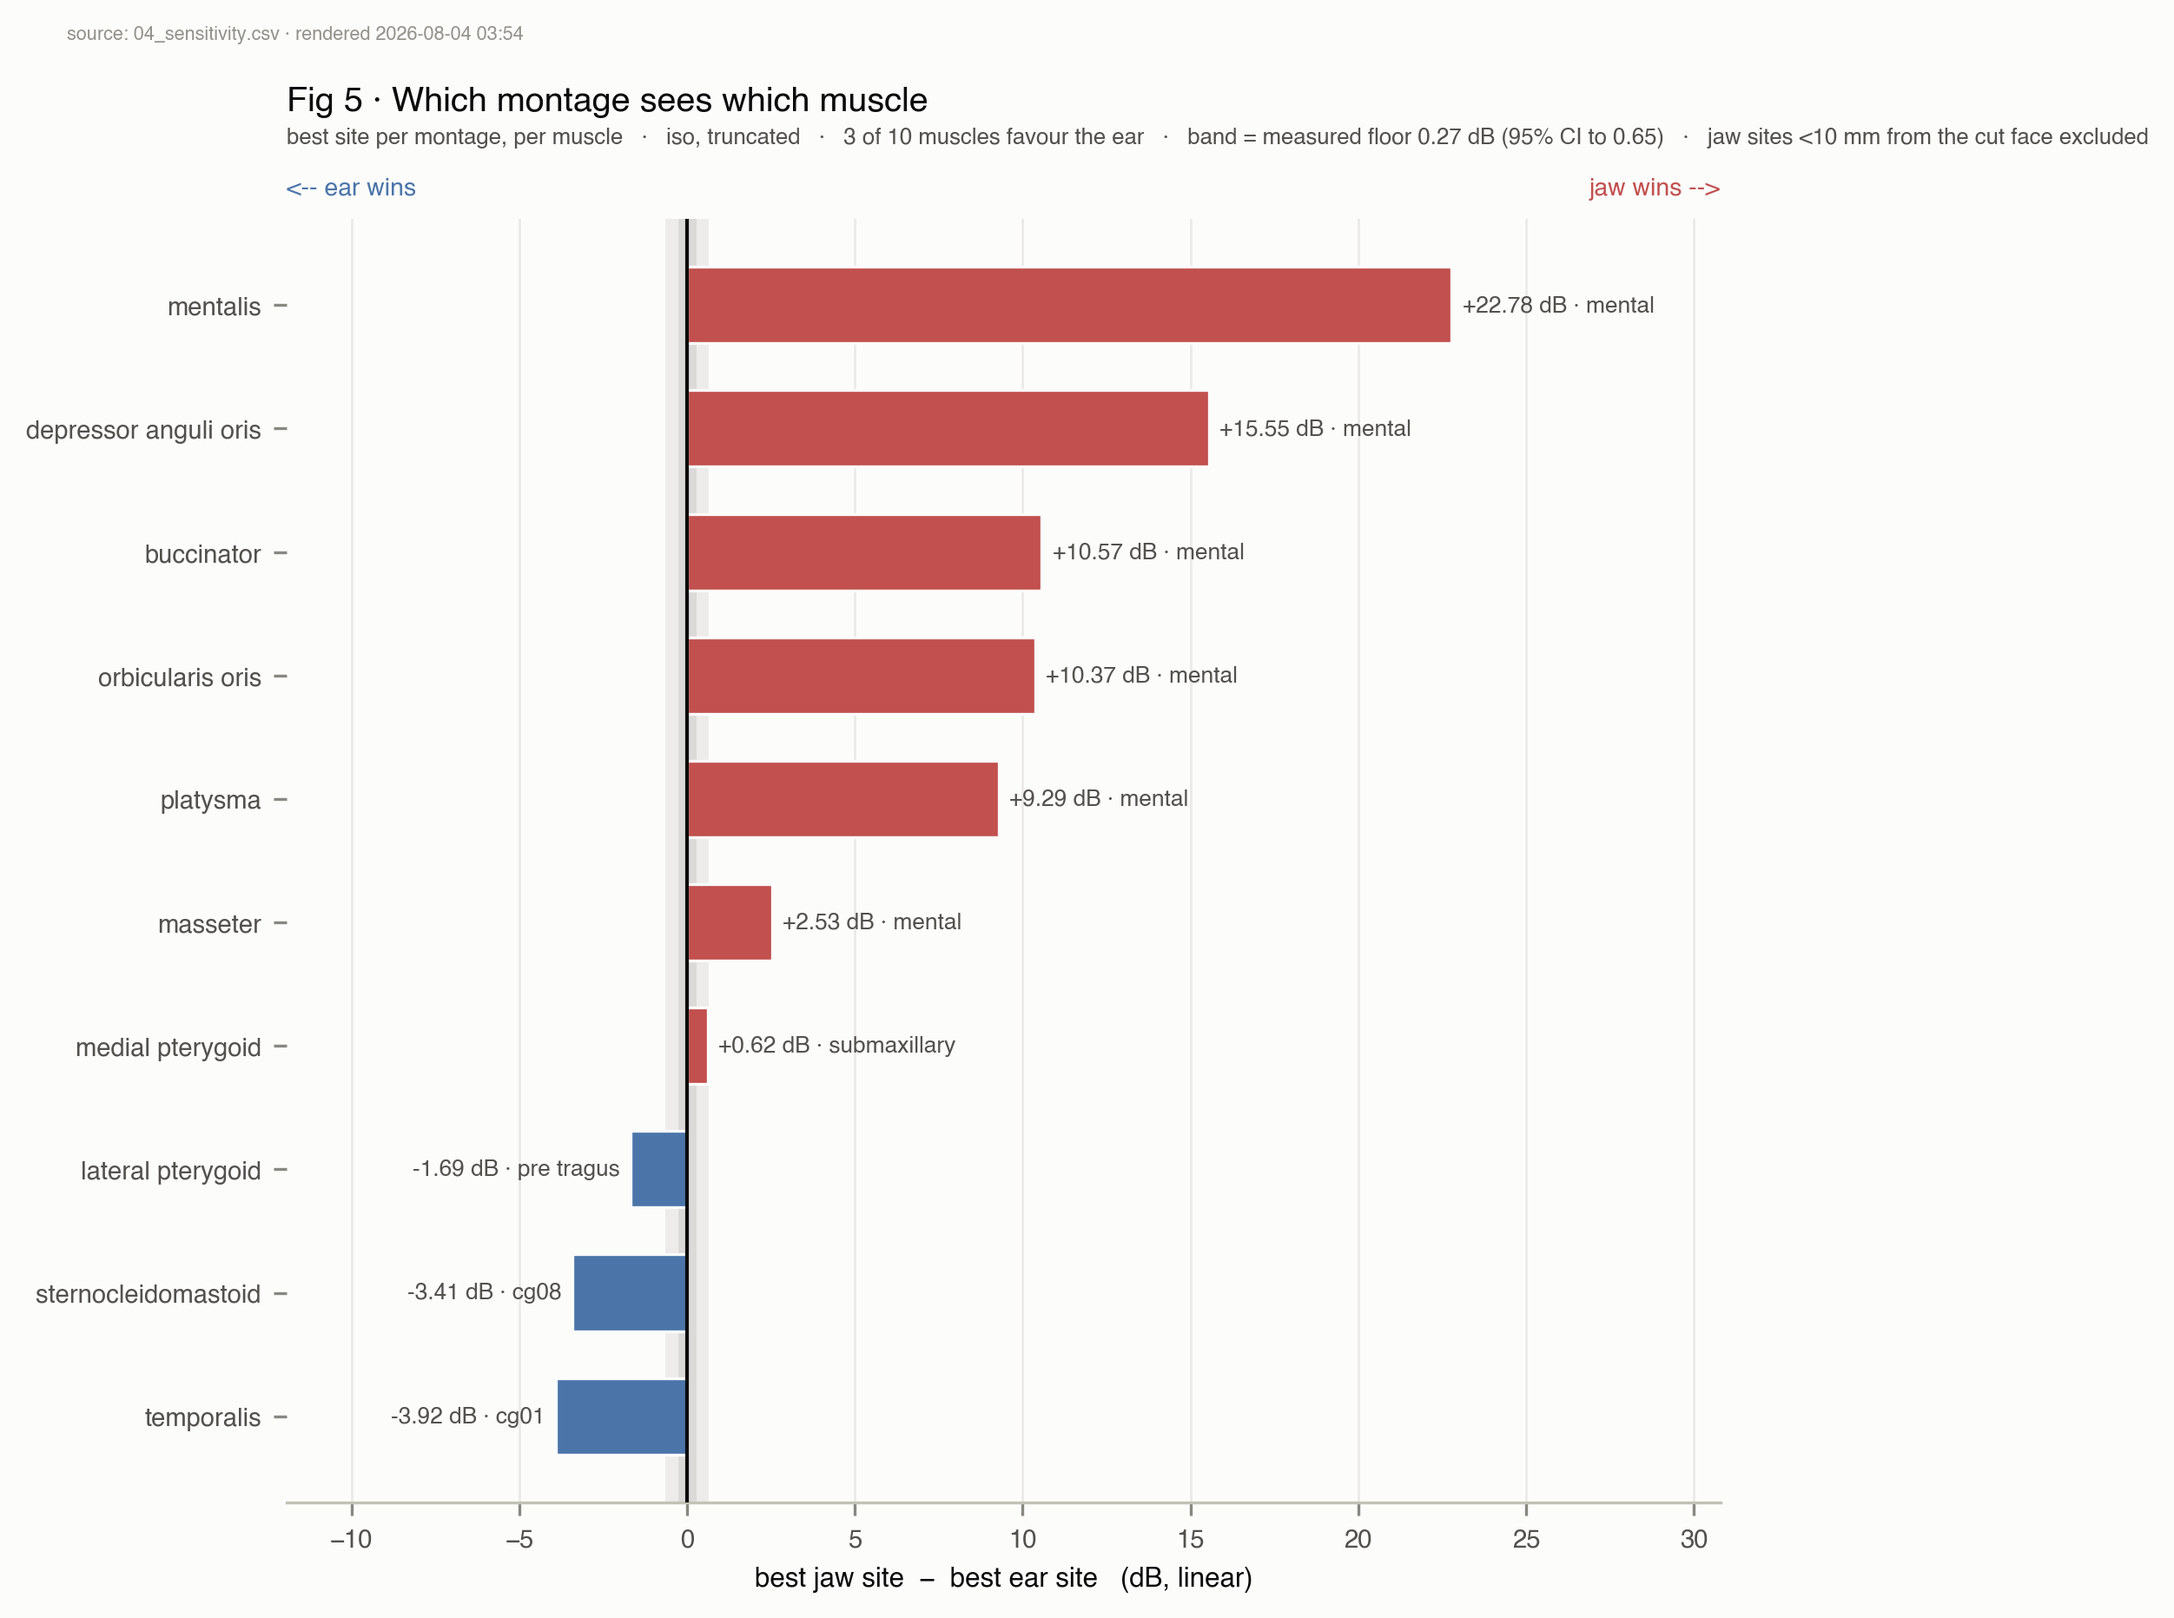
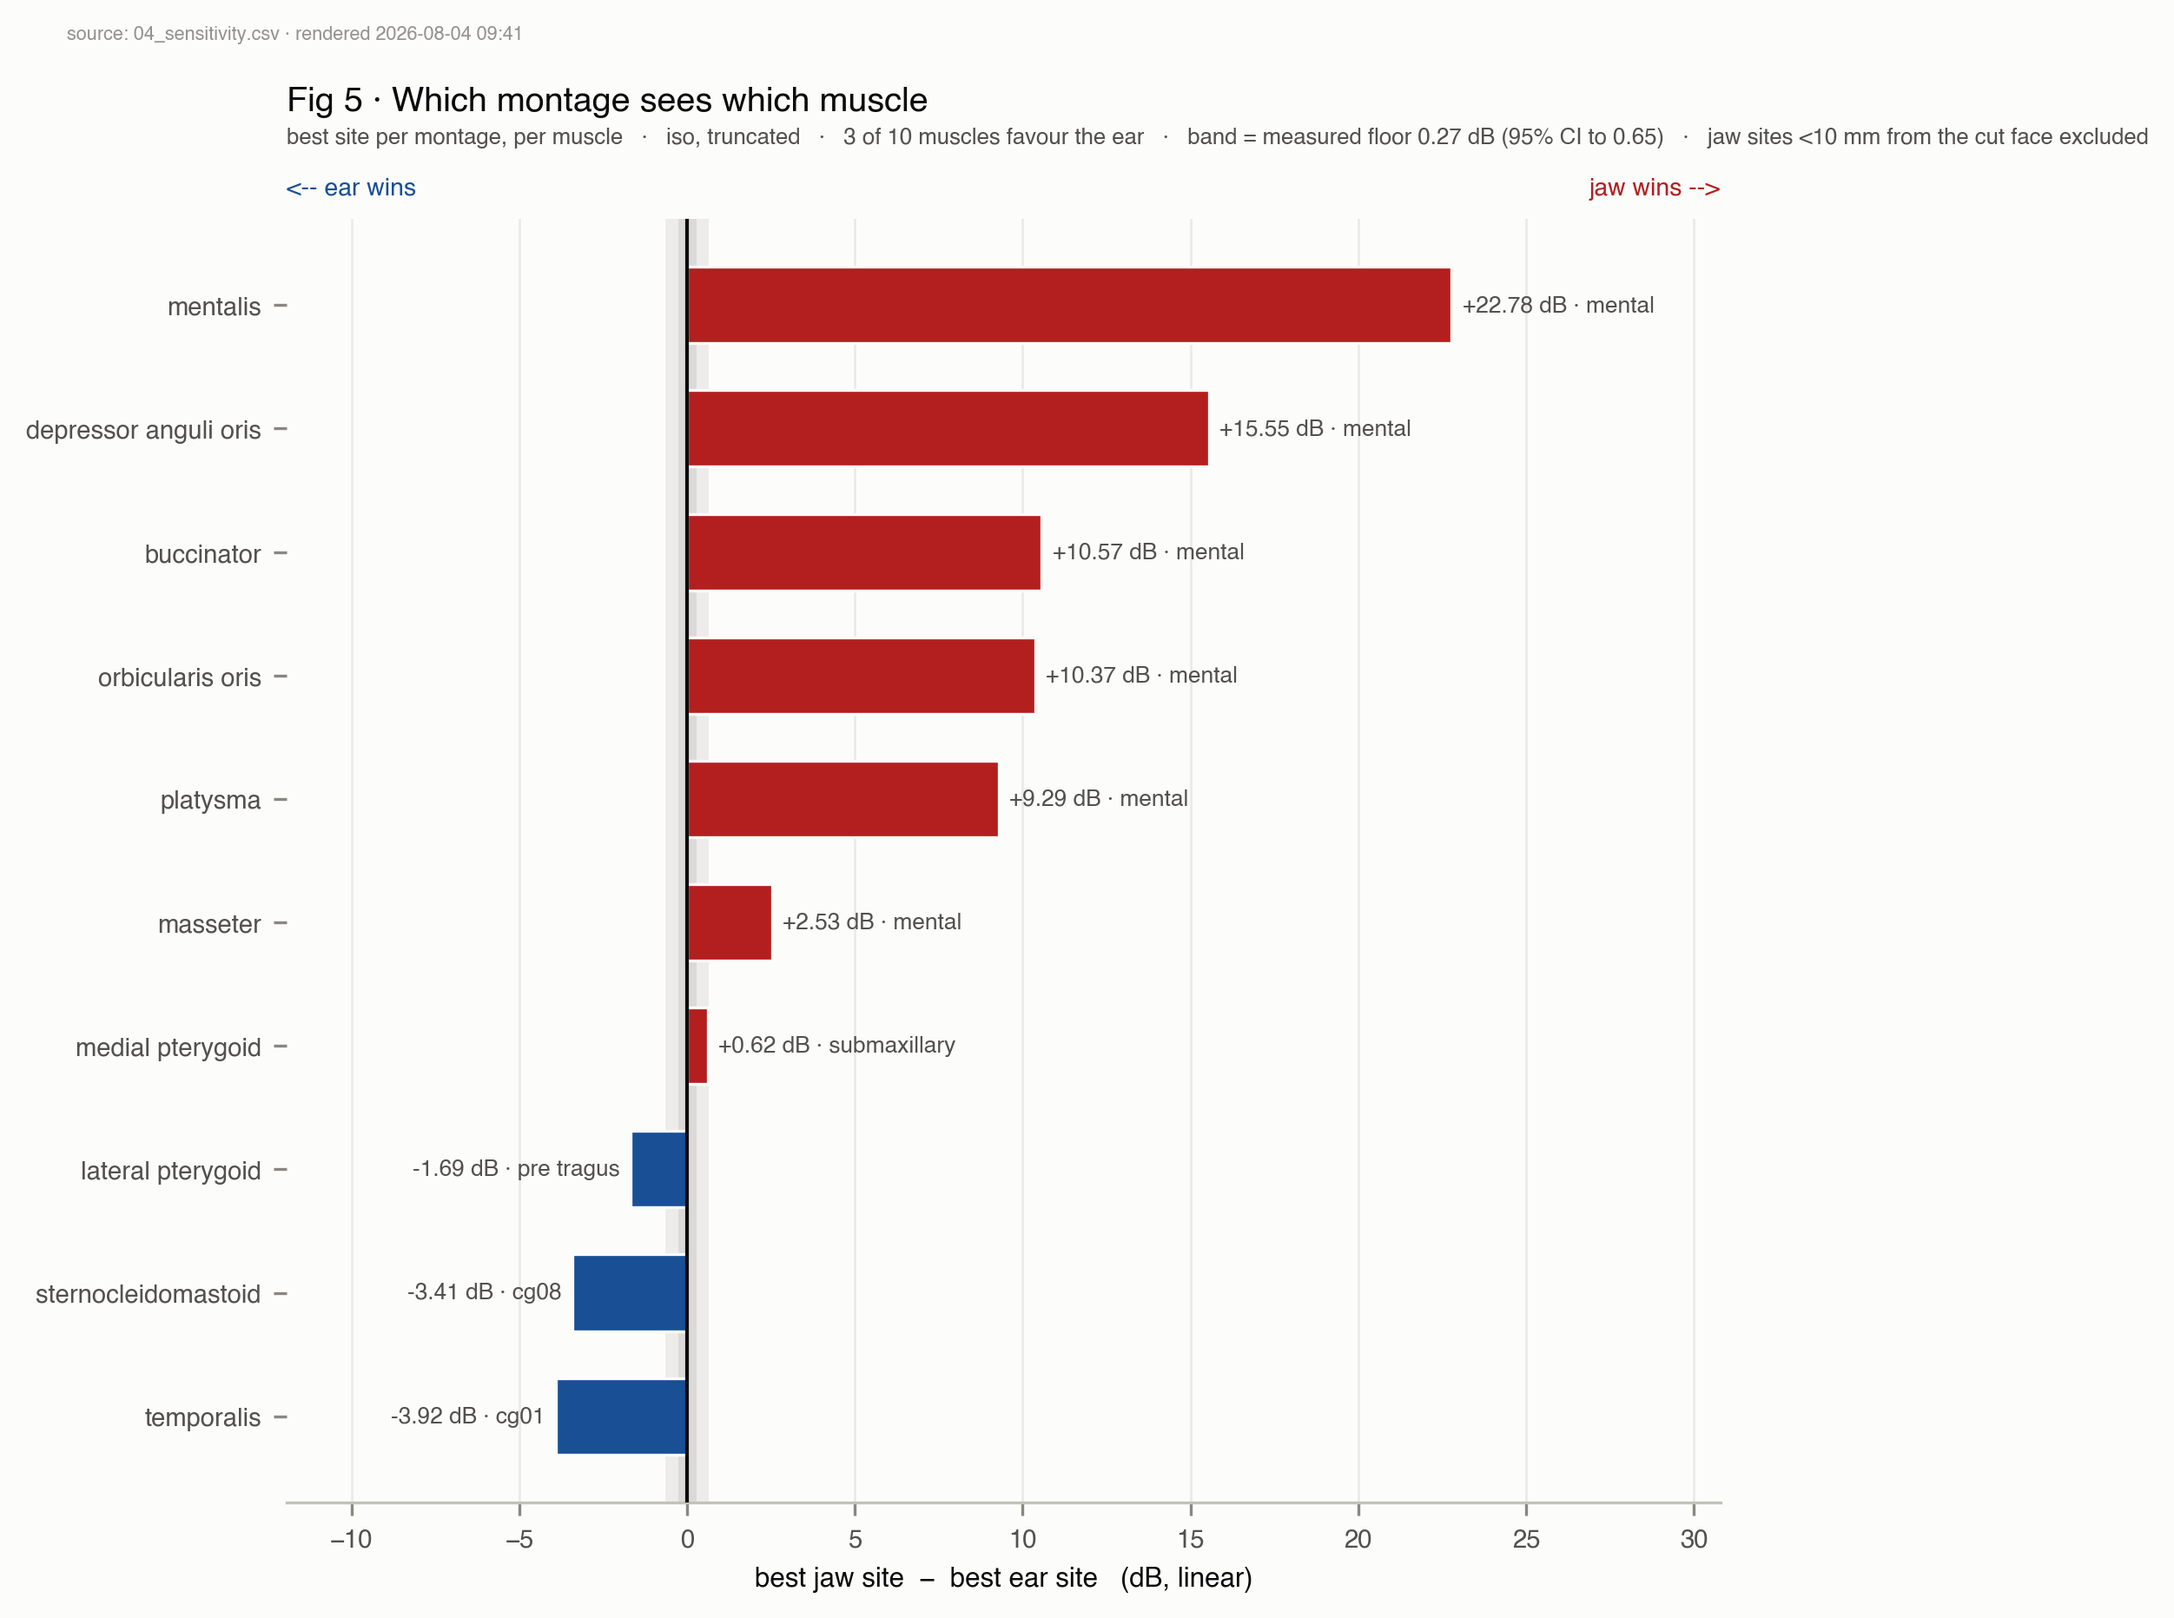
Fidelity vs correctness as a named class, with a full audit; semantic colour mapping
Item 1: the upstream draft now reports slope 0.359 against the predicted 0.5
and states plainly that this agrees only within the tet-patch's own absolute-
level uncertainty (0.9406/1.2481/1.1134, a spread of 27.9% of its mean). The
slope gap is 28.2% -- the same size -- so it is NOT presented as confirming
0.5, and the note says why the shortfall may point at the interface-flux
estimator and where it could be settled.

Item 2: CLAUDE.md gains the class -- a verification confirms a specification
was APPLIED, never that it was CORRECT -- with the tensor eigenvalue readback
as the worked case: it passed at |dot| 1.0000 on an axis that was the bilateral
separation, not the fibre direction. Every existing verification is audited by
channel; test_guard_coverage and anonymise_head are labelled fidelity-only with
their correctness partners named. Also recorded: split_sides() warned about
this exact failure in its docstring and was not read, the same shape as not
reading the SimNIBS calibration source.

Item 3: sign -> colour is defined ONCE in render_common as EAR_ADVANTAGE /
JAW_ADVANTAGE, and diverging_cmap() now REQUIRES ear_is_positive with no
default, so a caller that has not thought about which end of its quantity means
'ear wins' gets a TypeError rather than a silently inverted figure. Fig 2 and
Fig 5 plot opposite sign conventions for the same statement, which is exactly
how the inversion happened and why no test could catch it.
[…]

diff --git a/figures/render_common.py b/figures/render_common.py
@@ -81,9 +81,66 @@ def sequential_cmap():
     return cm
 
 
-def diverging_cmap():
-    """red <-> neutral gray <-> blue for signed deltas (Fig 4)."""
-    cm = LinearSegmentedColormap.from_list("div_rb", [_DIV_RED, _DIV_MID, _DIV_BLUE])
+# ----------------------------------------------------------------------
+# THE SEMANTIC COLOUR MAPPING — defined ONCE, imported everywhere
+# ----------------------------------------------------------------------
+# Fig 5 shipped a render in which BLUE meant "the jaw wins" while Fig 2's blue
+# meant "the ear wins", in the same paper. No test could catch it: both figures
+# were internally consistent, both used the project palette, both passed every
+# gate. It was caught by a human looking at two PNGs side by side, which does
+# not scale and did not happen the first time.
+#
+# The cause is that the two figures plot quantities with OPPOSITE sign
+# conventions for the same physical statement:
+#
+#     Fig 2 plots  dB re best jaw site   ->  POSITIVE means the ear wins
+#     Fig 5 plots  best jaw - best ear   ->  POSITIVE means the JAW wins
+#
+# So mapping "positive -> blue" in both is exactly how the inversion happens.
+# The fix is structural, in the same spirit as anonymise_head(): the semantic
+# is named once, and a caller cannot obtain a diverging colormap without
+# declaring which end of ITS OWN quantity means "ear advantage".
+#
+# EAR ADVANTAGE IS ALWAYS BLUE. JAW ADVANTAGE IS ALWAYS RED. Everywhere.
+EAR_ADVANTAGE = _DIV_BLUE
+JAW_ADVANTAGE = _DIV_RED
+NO_DIFFERENCE = _DIV_MID
+
+
+def diverging_cmap(ear_is_positive):
+    """Diverging ramp oriented so EAR ADVANTAGE IS BLUE, whatever the sign.
+
+    `ear_is_positive` is REQUIRED and has no default, deliberately. A caller
+    that has not thought about which end of its quantity means "the ear wins"
+    gets a TypeError at call time instead of a silently inverted figure.
+
+        Fig 2  plots dB re best jaw site  -> ear_is_positive=True
+        Fig 4  plots aniso - iso          -> no ear/jaw semantic; see
+                                             signed_cmap() for that case
+        Fig 5  plots best jaw - best ear  -> ear_is_positive=False
+    """
+    if not isinstance(ear_is_positive, bool):
+        raise TypeError(
+            "diverging_cmap(ear_is_positive=...) must be given True or False. "
+            "It exists because Fig 5 once rendered with blue meaning 'jaw "
+            "wins' while Fig 2's blue meant 'ear wins', which no test could "
+            "catch. State which end of YOUR quantity is the ear advantage.")
+    ends = ([JAW_ADVANTAGE, NO_DIFFERENCE, EAR_ADVANTAGE] if ear_is_positive
+            else [EAR_ADVANTAGE, NO_DIFFERENCE, JAW_ADVANTAGE])
+    cm = LinearSegmentedColormap.from_list("div_semantic", ends)
+    cm.set_bad(SURFACE)
+    return cm
+
+
+def signed_cmap():
+    """Diverging ramp for a quantity with NO ear/jaw semantic (Fig 4).
+
+    Blue = the quantity increased, red = it decreased. Kept separate from
+    `diverging_cmap` so that "which end is the ear" is never answered by
+    accident for a figure where the question does not apply.
+    """
+    cm = LinearSegmentedColormap.from_list(
+        "div_signed", [_DIV_RED, _DIV_MID, _DIV_BLUE])
     cm.set_bad(SURFACE)
     return cm
 

diff --git a/figures/render_fig5.py b/figures/render_fig5.py
@@ -98,15 +98,10 @@ def main(argv=None) -> int:
     gaps = np.array([r["gap"] for r in rows])
 
     fig, ax = plt.subplots(figsize=(7.1, 0.44 * n + 2.0))
-    # COLOUR POLARITY MUST MATCH FIG 2, and the first render of this figure got
-    # it backwards. diverging_cmap() is [red, neutral, blue]. In Fig 2 the
-    # plotted value is dB re best jaw site, so BLUE (high) = the ear beats the
-    # jaw. Here the plotted value is (best jaw - best ear), whose sign is
-    # opposite, so an ear win is a NEGATIVE bar and must still be BLUE.
-    # Mapping by raw value would have made blue mean "jaw wins" in one figure
-    # and "ear wins" in the other, in the same paper.
-    cmap = rc.diverging_cmap()
-    EAR, JAW = cmap(0.88), cmap(0.12)
+    # Colours come from the SEMANTIC constants, not from picking positions on
+    # a ramp. Reading poles off a colormap by index is what inverted this
+    # figure the first time; rc.EAR_ADVANTAGE cannot be got backwards.
+    EAR, JAW = rc.EAR_ADVANTAGE, rc.JAW_ADVANTAGE
     colours = [EAR if g < 0 else JAW for g in gaps]
 
     # resolution floor as a band, drawn under the bars

diff --git a/figures/render_fig2.py b/figures/render_fig2.py
@@ -79,7 +79,7 @@ def main(argv=None) -> int:
     norm = TwoSlopeNorm(vmin=vmin, vcenter=0.0, vmax=vmax)
 
     fig, ax = plt.subplots(figsize=(6.7, 5.3))
-    im = ax.imshow(M, aspect="auto", cmap=rc.diverging_cmap(), norm=norm)
+    im = ax.imshow(M, aspect="auto", cmap=rc.diverging_cmap(ear_is_positive=True), norm=norm)
 
     # secondary encoding of the sign
     win_r, win_c = np.where(np.nan_to_num(M, nan=-1e9) > 0)

diff --git a/figures/render_fig4.py b/figures/render_fig4.py
@@ -92,7 +92,7 @@ def main(argv=None) -> int:
     vmax = float(np.ceil(np.nanmax(np.abs(D)) * 10) / 10) or 1.0
 
     fig, ax = plt.subplots(figsize=(6.9, 5.3))
-    cmap = rc.diverging_cmap()
+    cmap = rc.signed_cmap()
     cmap.set_bad(rc.SURFACE)          # NOT APPLIED rows render as bare surface
     im = ax.imshow(D, aspect="auto", cmap=cmap, vmin=-vmax, vmax=vmax)
 

diff --git a/CLAUDE.md b/CLAUDE.md
@@ -82,6 +82,57 @@ This property is also the only automatic detector of an *unreachable* guard.
 a called guard sits after another guard's raise. A synthetic case that must
 make one guard fire alone does see it.
 
+**A verification check confirms a specification was APPLIED. It cannot confirm
+the specification was CORRECT.** Fidelity and correctness are separate channels
+and need separate tests. Passing one says nothing about the other.
+
+The case that established this: the anisotropy tensor was verified by reading
+the `ElementData` back off the mesh and asserting the eigenvalues were
+0.4/0.1/0.1 along the intended axis. It passed at |dot| = 1.0000 — **on a PCA
+axis that was the bilateral left-right separation between the paired muscles,
+not the fibre direction along either.** The check was working perfectly. It
+confirmed that the tensor SimNIBS received was the tensor requested, and it had
+no way to know the request was anatomically backwards. What caught it was
+reading the numbers and knowing that sternocleidomastoid does not run
+ear-to-ear.
+
+So for every check, ask which channel it covers, and say so in its docstring:
+
+- **fidelity** — "the value I asked for is the value that arrived". Cheap,
+  mechanical, and blind to the value being wrong.
+- **correctness** — "the value I asked for is the right value". Needs an
+  independent expectation: an analytic solution, a symmetry the answer must
+  obey, a control condition, or a physical fact about the world.
+
+A fidelity check without a correctness partner is not wrong, but it must be
+**labelled fidelity-only** so nobody reads its green tick as validation.
+
+**Audit, 2026-08-04.** Every verification in this repo, by channel:
+
+| check | channel | correctness partner |
+|---|---|---|
+| tensor eigenvalue readback | fidelity | **bilateral mirror-symmetry test** (paired axes must mirror in x) — added after the failure above |
+| `03e` per-side PCA axis | correctness | mirror symmetry + elongation; refuses `mentalis` at \|dot\| 0.215 |
+| aniso solve units (×1000) | correctness | the eight **non-tensor compartments as a control** — they must return at ratio ~1.0 |
+| `test_guards_fire.py` | correctness | each guard must fire in isolation AND a clean control must trip none |
+| `test_guard_coverage.py` | **fidelity-only** | it resolves that a guard is *called*; `test_guards_fire` is its correctness partner |
+| `same_discretisation()` | correctness | compares sorted coordinate sets, not counts |
+| invariant 1 plateau | correctness | radius-independence is a physical requirement |
+| invariant 2 outer net | correctness | charge conservation; **support** is a separate fidelity check (`invariant_2_coverage`) |
+| `conductivity_map_covers_mesh` | fidelity | reserved-range collision check is its correctness partner |
+| analytic sphere (pre-flight) | correctness | closed-form solution |
+| `anonymise_head()` + `assert_anonymised()` | **fidelity-only** | correctness partner is **rendering the figure and looking at it** — the first crop passed its own point count and left the profile legible |
+| allowlist pre-commit hook | correctness | it is an allowlist, so unknown formats fail closed |
+
+**And read the docstring of the thing you are about to reuse.**
+`orientation.split_sides()` carried a warning about this exact failure —
+*"Running PCA on that directly measures the left-right separation between two
+muscles, not the fibre direction along either — it reported sternocleidomastoid,
+the textbook strap muscle, as a plate"* — and the new tensor builder did not
+call it. That is the same shape as the SimNIBS calibration reversal, where three
+sessions of statistics ran against a quantity whose definition was one function
+away and nobody opened the source. **Both cost days. Both were one file away.**
+
 **Evaluate every guard, then raise once with all failures.** Fail-fast is right
 for a cheap precondition (the conductivity-span gate, which runs before a
 4-minute solve) and wrong for a diagnostic. `solve_invariants.GuardChain` is

diff --git a/paper/upstream/README.md b/paper/upstream/README.md
@@ -23,13 +23,35 @@ track the reported error with a positive slope near 0.5. On all 22 solves:
 |---|---|
 | reported `e` vs **\|tet-patch − 1\|** (what #665 did) | Spearman **−0.425**, p = 0.048 |
 | reported `e` vs **signed** (tet-patch − 1) | Spearman **+0.932**, p < 1e-5 |
-| linear fit | slope **+0.359** (model predicts +0.5), R² = **0.860** |
+| linear fit | slope **+0.359**, R² = **0.860** (model predicts +0.5 — see the caveat below) |
 | residual vs `a = 1 + e/2` | sd 0.0235, against 0.0449 for a flat 1.0 — the model removes **73%** of the variance |
 
 The whole "anti-correlation" in #665 was `abs()`. Taking the absolute deviation
-destroyed the sign and inverted the ranking. Slope 0.359 rather than 0.5 is
-expected: the tet-patch integrates cut flux over r = 25–75 mm, not flux at the
-interface, and carries its own realisation scatter.
+destroyed the sign and inverted the ranking.
+
+**On the slope, stated precisely rather than favourably.** The fitted slope is
+**0.359** against the model's **0.5**, a shortfall of **28%**. We are **not**
+presenting this as confirming 0.5. Our estimator's absolute level is not
+established tightly enough to test it: the same tet-patch integral reads
+**0.9406 / 1.2481 / 1.1134** across three analytic-sphere mesh densities, a
+spread of **0.31, or 28% of its own mean**, non-monotone in element size and
+changing sign. **The slope gap and our level uncertainty are the same size**, so
+the agreement is only "within our own error bars", and those bars are wide.
+
+What survives that caveat is the **rank** relationship, which a common
+multiplicative offset cannot touch: +0.932 Spearman, and the two extreme cases
+below.
+
+**Why the 28% may nonetheless be worth your attention.** If our level
+uncertainty were the whole story the slope should scatter about 0.5 rather than
+sit consistently under it, and it is under it on all 22 solves. Two candidates
+we cannot separate from this side: our patch integrates cut flux over
+r = 25–75 mm rather than flux at the electrode interface, so it may legitimately
+capture a different quantity; or the interface-flux estimator itself is biased
+low relative to the true interface current, in which case `a` and `b` are both
+shifted and only their difference survives. The second would be a real finding
+about the estimator, and the analytic sphere in artifact (d) is where it could
+be settled, since there the true interface current is known.
 
 The two algebraic landmarks check out exactly, and both match a real failure we
 hit:
